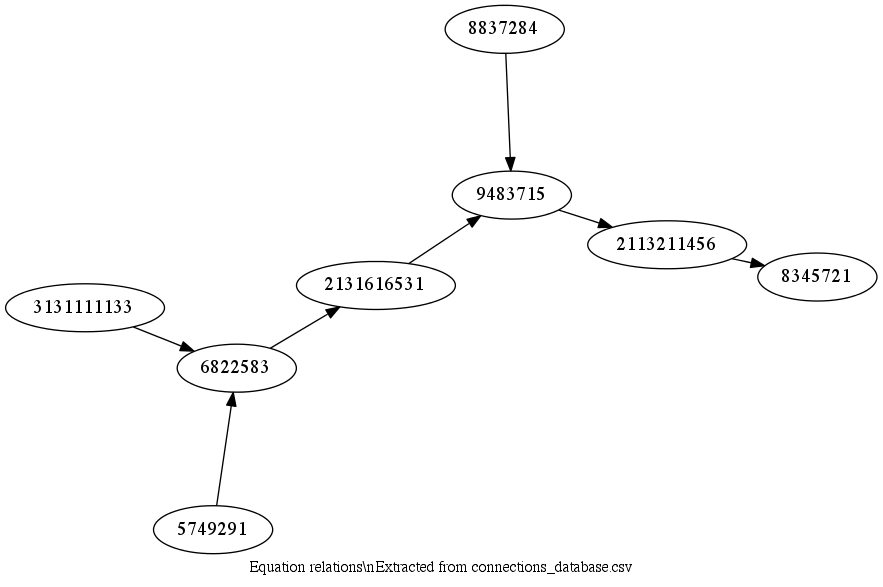
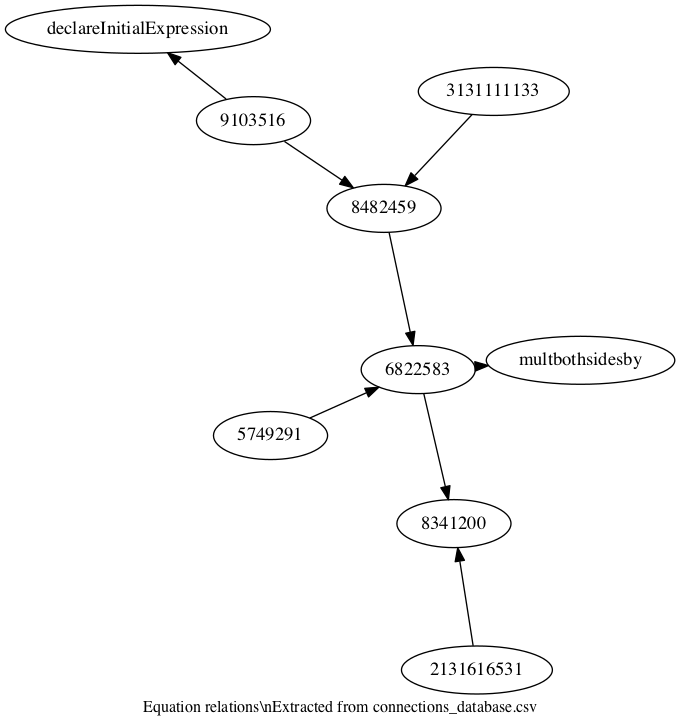
rewrite

diff --git a/site/how_to_build_the_physics_derivation.html b/site/how_to_build_the_physics_derivation.html
@@ -51,55 +51,68 @@ j=d.createElement(s),dl=l!='dataLayer'?'&l='+l:'';j.async=true;j.src=
   <td>&nbsp;</td>
   <td>
 
-<p>A simple "derivation" is the transition from the expression &nbsp;<i>T</i>=<i>1/f</i>&nbsp; to &nbsp;<i>f</i>=<i>1/T</i>&nbsp; -- the same example used on the <a href="../index.html">home page</a>. The purpose of this documentation is to explain how to build a graph<!-- using GraphViz, d3js, and a PDF in Latex-->.</p>
+<p>A simple derivation is the transition from the expression &nbsp;<i>T</i>=<i>1/f</i>&nbsp; to &nbsp;<i>f</i>=<i>1/T</i>&nbsp; -- the same example used on the <a href="../index.html">home page</a>. The purpose of this documentation is to explain how to build a graph<!-- using GraphViz, d3js, and a PDF in Latex-->.</p>
 
-<P>The first step is to perform the derivation in atomic steps. To express frequency as a function of period, multiply both sides of the expression <i>T=1/f</i> by <i>f</i> to get a new expression, <i>T*f=1</i>. Then divide both sides of the second expression by <i>T</i> to yield the third expression, <i>f=1/T</i>. <BR>
-Even this "simple" expansion to atomic steps is not standard practice -- I haven't seen this done anywhere else. For most derivations, this is burdensome process. </P>
+<P>Converting from <i>T</i>=<i>1/f</i>&nbsp; to &nbsp;<i>f</i>=<i>1/T</i> is straight forward: multiply both sides by <i>f</i>, then divide both sides by <i>T</i>. 
 
-<P>The next step is to visualize this graph. I usually do this iteration by hand on paper.<BR>
+
+<P>First we will break the derivation into atomic steps. In words: to express frequency as a function of period, multiply both sides of the expression <i>T=1/f</i> by <i>f</i> to get a new expression, <i>T*f=1</i>. Then divide both sides of the second expression by <i>T</i> to yield the third expression, <i>f=1/T</i>.  There are four steps in this derivation:
+<OL>
+<LI>declare initial expression <i>T=1/f</i></LI>
+<LI>multiply both sides of <i>T=1/f</i> by <i>f</i> to get <i>T*f=1</i></LI>
+<LI>divide both sides of <i>T*f=1</i> by <i>T</i> to get <i>f=1/T</i></LI>
+<LI>declare final expression: <i>f=1/T</i></LI>
+</OL>
+
+This simple expansion to atomic steps is not standard practice -- I haven't seen this done anywhere else. This expansion is a burdensome process for derivations. </P>
+
+<P>The next step is to visualize this graph. I usually do this iteration by hand on paper. [Here I'm showing graphviz produced by a later step in the process.]<BR>
 <center>
 <img src="pictures/example_T_f_graphviz_output.png" width="400">
 </center></P>
 
-<P>This graph could be represented by the following pairs in a CSV<BR>
-<FONT FACE="Courier New"> 
-"T=1/f",multbothsidesby<BR>
-"f",multbothsidesby<BR>
-multbothsidesby,"T f=1"<BR>
-"T f=1", dividebothsidesby<BR>
-dividebothsidesby,"T"<BR>
-dividebothsidesby,"f=1/T<BR>
-</FONT>
+<P>When building a graph, there are three types of nodes: inference rules, expressions, and feeds. The graph will only have three types of edges:
+<UL>
+<LI>source:"inference rule", destination:"expression"</LI>
+<LI>source:"expression", destination:"inference rule"</LI>
+<LI>source:"feed", destination:"inference rule"</LI>
+</UL>
 
-<P>However, for larger derivations, a conflict arises. The inference rules can be referred to more than once -- ie "multbothsidesby" can be used in different steps of a derivation. Since we want the graph to have more than one node with the same label, an index which has a scope limited to the derivation step is needed. This leads to the notion of a "temporary index" for each inference rule. The temporary index for the inference rule is a unique identifier within a derivation step.</P>
+<P>This directed graph is a set of nodes and edges, so it could be represented by the following pairs in a CSV:
+<!--<FONT FACE="Courier New"> -->
+<pre>
+declareInitialEq, "T=1/f"
+"T=1/f",          multbothsidesby
+"f",              multbothsidesby
+multbothsidesby,  "T f=1"
+"T f=1",          dividebothsidesby
+"T",              dividebothsidesby
+dividebothsidesby,"f=1/T"
+"T=1/f",          declareFinalEq
+</pre>
+In this description, the edge pairs are ordered by source and destination. 
 
-<P>A second complication arise regarding the expression. In the above example, I use a human readable expression, ie "T=1/f". This usefulness of this format depends on what is reading the expression. The expression needs to be readable by humans, LaTeX, and Computer Algebra Systems (ie Mathematica, Sympy). A unique identifier is needed which is associated with the expression, independent of the representation. In Logic, this is referred to as the Godel number. Similarly, the "feeds" (here <i>f</i> and <i>T</i> need unique identifiers.<P>
+<P>At this point we have enough to generate a graph, ie using GraphViz. However, the objective is to support more complex derivations, and also to link multiple derivations. At that scale, the inference rule "multbothsidesby" may appear in multiple steps. We don't want the graph to render multiple uses of the same inference rule as the same node. We do want multiple references to the same expression to be a single node. An index which has a scope limited to the local derivation step is needed. This leads to the notion of a "temporary index" for each inference rule. The temporary index for the inference rule is a unique identifier within a derivation step.</P>
+
+<P>Another complication arises regarding the expression. In the above example, I use a human readable expression, i.e. <i>T=1/f</i>. The usefulness of this format depends on what is reading the expression. Multiple readers of the expression can be expected: humans, LaTeX, and Computer Algebra Systems (i.e. Mathematica, Sympy). This leads to the need for a unique identifier which is associated with the expression  independent of the representation. In Logic, this unique identifier is referred to as the Godel number. (Similarly, the "feeds" (here <i>f</i> and <i>T</i> need unique identifiers.)<P>
+
+<P>To summarize the above points,
+<UL>
+<LI>each inference rule gets a local identifier</LI>
+<LI>each expression gets a unique identifier</LI>
+<LI>each feed gets a unique identifier</LI>
+</UL>
+
 
 <P>With the above constraints in mind, the CSV format is now of the form<BR>
 <!--<FONT FACE="Courier New"> -->
+<!--<textarea cols="100" rows="8" style="font-size: 12pt" style="font-family:Courier New">-->
+
+<!--<center>-->
+
 <center>
-<textarea cols="100" rows="8" style="font-size: 12pt" style="font-family:Courier New">
-"frequency and period",2,"expression",8482459,       3131111133,   "infrule",6822583,multbothsidesby
-"frequency and period",2,      "feed",5749291,                0,   "infrule",6822583,multbothsidesby
-"frequency and period",2,   "infrule",6822583,  multbothsidesby,"expression",8341200,2131616531
-"frequency and period",3,"expression",8341200,       2131616531,   "infrule",9483715,dividebothsidesby
-"frequency and period",3,      "feed",8837284,                0,   "infrule",9483715,dividebothsidesby
-"frequency and period",3,   "infrule",9483715,dividebothsidesby,"expression",9380032,2113211456
-"frequency and period",4,"expression",9380032,       2113211456,   "infrule",8345721,declareFinalExpression
-</textarea>
+<img src="pictures/simple_example_expanded_T1f.png" width="900">
 </center>
-<!--</FONT>-->
-<P>The columns are
-<OL>
-<LI>the name of the derivation</LI>
-<LI>the step number within the derivation</LI>
-<LI>the from node type</LI>
-<LI>the from node temporary index</LI>
-<LI>the from node permanent index</LI>
-<LI>the to node type</LI>
-<LI>the to node temporary index</LI>
-<LI>the to node permanent index</LI>
-</OL>
 
 <P>The expression permanent index is the same across all derivations, whereas the temporary index is scoped to just the derivation step.<BR>
 Similarly, the inference rule permanent index is consistent across the entire physics derivation project, whereas the temporary index is specific to the derivation step.</p>
@@ -107,64 +120,64 @@ Similarly, the inference rule permanent index is consistent across the entire ph
 <P>The inference rule needs the temporary index to build the graph.<BR>
 The expression needs a temporary index to build the Latex PDF. </P>
 
-<P>The graph will only have three types of edges:
-<UL>
-<LI>from:"inference rule", to:"expression"</LI>
-<LI>from:"expression", to:"inference rule"</LI>
-<LI>from:"feed", to:"inference rule"</LI>
-</UL>
-
-<P>When building a graph, there are three types of nodes: inference rules, expressions, and seeds. To build a graph, we basically need a set of pairs. The pairs come from the 8 column CSV above. 
-<UL>
-<LI>If the "to"   node (column 3) is an inference rule, use the temporary index (column 4) to be the new column 1.</LI>
-<LI>If the "to"   node (column 3) is a            feed, use the temporary index (column 4) to be the new column 1.</LI>
-<LI>If the "to"   node (column 3) is an     expression, use the permanent index (column 5) to be the new column 1.</LI>
-
-<LI>If the "from" node (column 6) is an inference rule, use the temporary index (column 7) to be the new column 2.</LI>
-<LI>If the "from" node (column 6) is a            feed, use the temporary index (column 7) to be the new column 2.</LI>
-<LI>If the "from" node (column 6) is an     expression, use the permanent index (column 8) to be the new column 2.</LI>
-</UL>
-
-<P>For the above example, that yields the following to columns:<BR>
-<center>
-<textarea cols="30" rows="8" style="font-size: 12pt" style="font-family:Courier New">
-3131111133,6822583
+<P>The core of the Physics Derivation Graph is an edge list of temporary IDs that are local to each step. 
+<pre>
+$ cat derivation_edge_list.csv
+9103516,8482459
+8482459,6822583
 5749291,6822583
-6822583,2131616531
-2131616531,9483715
-8837284,9483715
-9483715,2113211456
-2113211456,8345721
-</textarea>
-</center>
-</P>
+6822583,8341200
+</pre>
+But that's not very useful. It needs to be decorated with expressions
+<pre>
+$ cat expression_identifiers.csv
+3131111133,8482459
+2131616531,8341200
+</pre>
+and inference rules
+<pre>
+$ cat inference_rule_identifiers.csv 
+6822583,multbothsidesby
+9103516,declareInitialExpression
+</pre>
 
-<P>Those two columns are straight forward to use in GraphViz format</P>
+<P>Those two columns can be converted to a GraphViz format</P>
+
+<pre>
+$ cat derivation_edge_list.csv | sed 's/,/ -> /' > body_of_graph.dot
+$ cat expression_identifiers.csv | sed 's/,/ -> /' >> body_of_graph.dot
+$ cat inference_rule_identifiers.csv | sed 's/,/ -> /' >> body_of_graph.dot
+</pre>
+
 <P>
-<FONT FACE="Courier New"> 
-digraph physicsDerivation {<BR>
-overlap = false;<BR>
-label="Equation relations\\nExtracted from connections_database.csv";<BR>
-fontsize=12;<BR>
-3131111133 -&gt; 6822583<BR>
-5749291 -&gt; 6822583<BR>
-6822583 -&gt; 2131616531<BR>
-2131616531 -&gt; 9483715<BR>
-8837284 -&gt; 9483715<BR>
-9483715 -&gt; 2113211456<BR>
-2113211456 -&gt; 8345721<BR>
-}<BR></FONT>
+<pre>
+digraph physicsDerivation {
+overlap = false;
+label="Equation relations\\nExtracted from derivation_edge_list.csv";
+fontsize=12;
+9103516 -> 8482459
+8482459 -> 6822583
+5749291 -> 6822583
+6822583 -> 8341200
+3131111133 -> 8482459
+2131616531 -> 8341200
+6822583 -> multbothsidesby
+9103516 -> declareInitialExpression
+</pre>
 
 <P>Command:<BR>
-neato -Tpng -Nlabel="" frequency_and_period.dot &gt; out.png</P>
+<pre>
+neato -Tpng body_of_graph.dot &gt; out.png
+</pre></P>
 
 <P>Output:<BR>
 <center>
-<img src="pictures/example_T_f_intermediate_output.png" width="400">
+<img src="pictures/example_T_f_intermediate_output.png" width="500">
 </center>
 </P>
 
-<p>However, that's not yet the pretty picture of the graph we want. Next we need to replace the Godel numbers with pictures and text. </P>
+<p>However, that's not yet the pretty picture of the graph we want. We need to replace the Godel numbers (permanent IDs) with pictures for expressions. Also need to collapse temporary IDs.</P>
+
 
 <div id="includedFooterContent"></div>
   </td>
